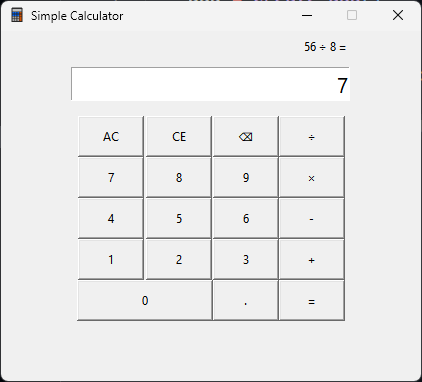
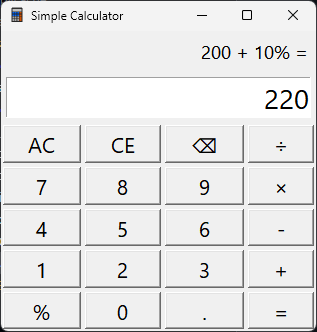
Update README for V4.0  release

diff --git a/README.MD b/README.MD
@@ -2,11 +2,11 @@
 
 A desktop calculator built with **Python** and **Tkinter** to practice software design, event-driven programming, GUI development, and incremental software architecture.
 
-The project began as a **terminal-based calculator (v1.0)**, evolved into a **Tkinter desktop application (v2.0)**, introduced a dedicated **calculator engine with state management (v3.0)**, was refactored into a cleaner, data-driven GUI architecture in **v3.1**, and further enhanced with **keyboard support, Clear Entry (CE), repeated equals behavior, improved operator handling, and UI refinements in v3.2**.
+The project began as a **terminal-based calculator (v1.0)**, evolved into a **Tkinter desktop application (v2.0)**, introduced a dedicated **calculator engine with state management (v3.0)**, adopted a **data-driven GUI architecture (v3.1)**, added **keyboard support and calculator usability improvements (v3.2)**, and was finally refactored into a clean **object-oriented GUI architecture (v4.0)** with improved separation of responsibilities and maintainability.
 
-![Status](https://img.shields.io/badge/Status-Active_Development-brightgreen)
+![Status](https://img.shields.io/badge/Status-Stable-brightgreen)
 ![Python](https://img.shields.io/badge/Python-3.14.3-blue?logo=python&logoColor=white)
-![Version](https://img.shields.io/badge/Version-v3.2-orange)
+![Version](https://img.shields.io/badge/Version-v4.0-orange)
 ![GUI](https://img.shields.io/badge/GUI-Tkinter-green)
 ![License](https://img.shields.io/badge/License-MIT-purple)
 ![Last Commit](https://img.shields.io/github/last-commit/AradhyaMaheshwari-bit/python-simple-calculator)
@@ -15,39 +15,53 @@ The project began as a **terminal-based calculator (v1.0)**, evolved into a **Tk
 
 ## ✨ Features
 
-### Calculator
+### Core Operations
 
 - ➕ Addition
 - ➖ Subtraction
 - ✖️ Multiplication
 - ➗ Division
-- 🔢 Calculator-style digit input
 - 🔄 Sequential calculations
-- ⌫ Backspace support
-- 🧹 All Clear (AC)
+- 🔁 Repeated equals (`=`)
+- 🔄 Operator replacement
+
+### Input & Editing
+
+- 🔢 Calculator-style digit input
 - 🔢 Decimal number support
 - 🚫 Prevents multiple decimal points
+- ⌫ Backspace support
+- 🧹 All Clear (AC)
+- 🧹 Clear Entry (CE)
+
+### Display & Error Handling
+
 - 📄 Live expression display
 - 🎯 Automatic input state management
+- ✨ Clean result formatting (e.g. `12` instead of `12.0`)
 - ⚠️ Division-by-zero handling
 - 🔁 Error recovery
-- ✨ Clean result formatting (e.g. `12` instead of `12.0`)
-- 🖥️ Desktop GUI built with Tkinter
+
+### User Experience
+
+- ⌨️ Keyboard shortcuts
+- ⌨️ Numpad support
+- 🪟 Custom application window icon
+- 🔠 Responsive font scaling
+
+### Architecture
+
+- 🧱 Object-oriented GUI architecture
 - 🧩 Modular architecture
 - ⚙️ Data-driven button generation
 - 🏷️ Button metadata for scalable GUI behavior
-- ⌨️ Keyboard shortcuts
-- 🔁 Repeated equals (`=`)
-- 🧹 Clear Entry (CE)
-- 🔄 Operator replacement
-- 🪟 Custom application window icon
-- ⌨️ Numpad support
+- 🖥️ Desktop GUI built with Tkinter
 
 ---
 
 ## 🛠 Technologies Used
 
-- Python 3
+- Python 3.14
 - Tkinter
 - Git & GitHub
 
@@ -55,25 +69,38 @@ The project began as a **terminal-based calculator (v1.0)**, evolved into a **Tk
 
 ## 📚 Concepts Practiced
 
-- Object-Oriented Design (calculator engine)
+### Software Design
+
+- Object-Oriented Design (Calculator Engine)
+- Object-Oriented GUI Design
+- Class-based GUI Architecture
+- Modular Programming
+- Separation of Concerns
 - State Management
+- State Machine Design
+
+### GUI Development
+
+- Tkinter GUI Development
 - Event-driven Programming
 - Callback Functions
+- Keyboard Event Handling
+- Layout Management (`pack()` & `grid()`)
+- GUI Refactoring
+- GUI Metadata Configuration
+
+### Python Concepts
+
 - Lambda Functions & Closures
 - Exception Handling
 - Helper Functions
 - Data-driven Programming
 - Dictionary-based Configuration
-- Modular Programming
-- Separation of Concerns
-- GUI Refactoring
-- Tkinter GUI Development
-- Layout Management (`pack()` & `grid()`)
-- Git & GitHub Workflow
-- Keyboard Event Handling
 - Dictionary Dispatch Pattern
-- State Machine Design
-- GUI Metadata Configuration
+
+### Development Workflow
+
+- Git & GitHub Workflow
 - UI/UX Polish
 
 ---
@@ -105,7 +132,8 @@ python main.py
 ```text
 python-simple-calculator/
 ├── assets/
-│   └── icon.ico
+│   ├── icon.ico
+│   └── screenshot.png
 ├── modules/
 │   ├── calculator.py
 │   └── operations.py
@@ -146,7 +174,7 @@ python-simple-calculator/
 - Backspace support
 - Improved modular architecture
 
-### v3.1 — GUI Refactoring & UI Polish
+### v3.1 — Data-Driven GUI Refactoring
 
 - Centralized display updates
 - Centralized error handling
@@ -157,7 +185,7 @@ python-simple-calculator/
 - Improved callback organization
 - Cleaner and more maintainable architecture
 
-### v3.2 — Keyboard & UX Improvements
+### v3.2 — Keyboard Support & Calculator UX
 
 - Keyboard shortcuts
 - Numpad support
@@ -170,6 +198,17 @@ python-simple-calculator/
 - Dictionary-based operation dispatch
 - Additional UI polish
 
+### v4.0 — Object-Oriented GUI Architecture
+
+- Converted the GUI into a CalculatorApp class
+- Introduced application lifecycle through __init__() and run()
+- Extracted window, display, and button creation into dedicated methods
+- Reorganized GUI callbacks into class methods
+- Centralized keyboard command handling
+- Improved button metadata using clear modes
+- Refined naming and project organization
+- Improved maintainability while preserving calculator behavior
+
 ---
 
 ## 📸 Screenshot
@@ -180,16 +219,13 @@ python-simple-calculator/
 
 ## 🔮 Roadmap
 
-### v4.0 — Object-Oriented GUI
-
-- Convert GUI into a class
-- Improve application architecture
-- Better separation of responsibilities
-
 ### v5.0 — Expression Parser
 
+- Replace immediate evaluation with full expression evaluation
+- Expression tokenizer
+- Expression parser
+- Expression evaluator
 - BODMAS / operator precedence
-- Expression evaluation without `eval()`
 - Parentheses support
 
 ### v5.1 — Scientific Calculator
@@ -212,19 +248,28 @@ python-simple-calculator/
 
 This project helped me understand:
 
+### Software Architecture
+
 - Designing modular Python applications
+- Designing class-based GUI applications
+- Separating business logic from the GUI through a layered architecture
+- Building maintainable event-driven applications
+
+### Programming Concepts
+
 - Building a calculator state machine
-- Separating business logic from the GUI
+- Designing reusable state machines
 - Data-driven GUI design
 - Event-driven programming with Tkinter
 - Lambda closures and callback handling
-- Refactoring for maintainability
 - Exception handling and recovery
-- Writing maintainable, incremental Git commits
-- Organizing a project through versioned development
-- Designing reusable state machines
 - Dictionary-based dispatch
-- Keyboard event handling
+
+### Software Development
+
+- Organizing a project through versioned development
+- Refactoring for maintainability
+- Writing maintainable, incremental Git commits
 - Building data-driven user interfaces
 
 ---